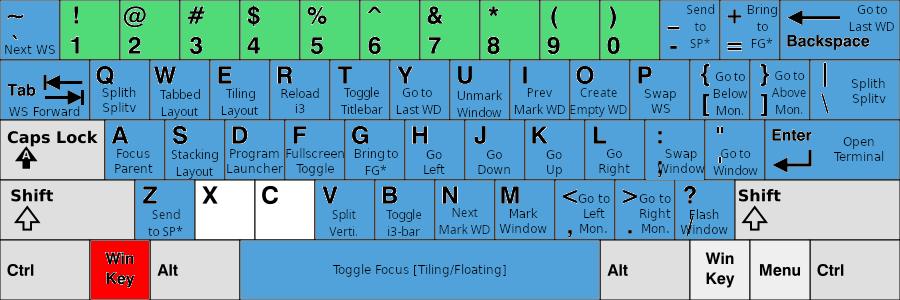
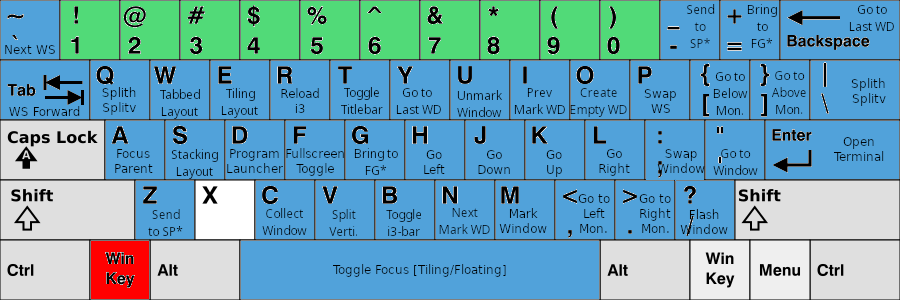
update:add_collect_window_function

Changed region(s): [[0.28, 0.6, 0.3733, 0.81]]

diff --git a/config/i3/script/i3_collect_all_instances.py b/config/i3/script/i3_collect_all_instances.py
@@ -1,0 +1,48 @@
+#!/usr/bin/env python3
+
+import i3ipc
+import os
+import sys
+
+
+def move_all_instances_to_focused_workspace(target_instance,
+                                            dest_workspace=None,
+                                            verbose=True):
+
+    # Get windows in i3
+    i3 = i3ipc.Connection()
+    windows = i3.get_tree().leaves()
+
+    # Get focused_workspace
+    focused_workspace = i3.get_tree().find_focused().workspace().name
+
+    # Move collected instance window
+    for window in windows:
+        if target_instance in window.window_instance:
+            i3.command(
+                f'[con_id="{window.id}"] move container to workspace {focused_workspace}'
+            )
+
+    # Notification
+    if verbose:
+        os.system(
+            f'notify-send -u low "I3-IPC" "All *{target_instance}* instance windows are moved to workspace {focused_workspace}"'
+        )
+
+
+def main():
+
+    # Input instance to collect
+    if len(sys.argv) < 2:
+        print(f'Wrong Usage:\n  {sys.argv}\n')
+        print(f'Usage:\n  i3_collect_all_instances.py [target_instance]\n')
+        sys.exit()
+
+    target_instance = sys.argv[1]
+
+    # Collect all instances and move them to the workspace
+    move_all_instances_to_focused_workspace(target_instance)
+
+
+if __name__ == '__main__':
+    main()
